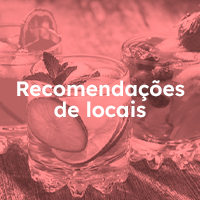
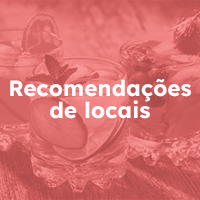
mudanças html e css

diff --git a/src/app/components/shared/right-side/right-side.component.html b/src/app/components/shared/right-side/right-side.component.html
@@ -5,27 +5,27 @@
   </div>
 
   <div class="w-12">
-    <p-contextmenu #cm [model]="items" (onHide)="selectedProduct = null" />
-    <p-table #dt2 [value]="products" class="scrollable-table w-full" [ngStyle]="{'max-height': tableHeight}">
+    <p-contextmenu #cm [model]="items" (onHide)="selectedUser = null" />
+    <p-table #dt2 [value]="users" class="scrollable-table w-full" [ngStyle]="{'max-height': tableHeight}">
       <ng-template #caption>
         <div class="flex">
           <p-iconfield iconPosition="left" class="ml-auto">
             <p-inputicon>
               <i class="pi pi-search"></i>
             </p-inputicon>
-            <input pInputText type="text" (input)="filterProducts($event)" placeholder="Pesquisar usuário" />
+            <input pInputText type="text" (input)="filterUsers($event)" placeholder="Pesquisar usuário" />
           </p-iconfield>
         </div>
       </ng-template>
 
-      <ng-template pTemplate="body" let-product let-i="rowIndex">
-        <tr (click)="onRowClick(product)" [pContextMenuRow]="product">
+      <ng-template pTemplate="body" let-user let-i="rowIndex">
+        <tr (click)="onRowClick(user)" [pContextMenuRow]="user">
           <td>
-            <img [src]="product.photo" height="50" width="50" class="product-image" />
+            <img [src]="user.photo" height="50" width="50" class="user-image" />
           </td>
           <td>
-            <div class="truncate" style="color: #3e3e3e;"> {{ product.name }} </div>
-            <div class="truncate" style="font-size: 12px;"> {{ product.text }}</div>
+            <div class="truncate" style="color: #3e3e3e;"> {{ user.name }} </div>
+            <div class="truncate" style="font-size: 12px;"> {{ user.text }}</div>
           </td>
         </tr>
       </ng-template>
@@ -33,8 +33,8 @@
 
     <div *ngIf="isExpanded">
       <div class="grid div-chat"  style="width: 100%; display: flex; align-items: center;">
-        <div class="col"><img *ngIf="expandedProduct" [src]="expandedProduct.photo" height="50" width="50" class="product-image2" /></div>
-        <div class="col-7 truncate"><div *ngIf="expandedProduct" style="color: #FF9D9D; font-weight: 600; font-size: large;"> {{ expandedProduct.name }} </div></div>
+        <div class="col"><img *ngIf="expandedUser" [src]="expandedUser.photo" height="50" width="50" class="user-image2" /></div>
+        <div class="col-7 truncate"><div *ngIf="expandedUser" style="color: #FF9D9D; font-weight: 600; font-size: large;"> {{ expandedUser.name }} </div></div>
         <div class="col"><i class="pi pi-times" (click)="closeDiv()"></i></div>
       </div>
       <div>

diff --git a/src/app/components/shared/right-side/right-side.component.ts b/src/app/components/shared/right-side/right-side.component.ts
@@ -9,7 +9,7 @@ import { MenuItem } from 'primeng/api';
 import { ContextMenu } from 'primeng/contextmenu';
 import { TextareaModule } from 'primeng/textarea';
 
-export interface Product {
+export interface User {
   photo: any;
   name: string;
   text: string;
@@ -24,18 +24,18 @@ export interface Product {
 })
 export class RightSideComponent implements OnInit {
 
-  products!: Product[];
+  users!: User[];
   items: MenuItem[] | undefined;
-  selectedProduct: Product | null = null;
+  selectedUser: User | null = null;
   tableHeight = '80%';
   isExpanded = false;
-  expandedProduct: Product | null = null;
+  expandedUser: User | null = null;
 
   @ViewChild('dt2') dt2!: Table;
 
   ngOnInit() {
-    this.getProductsMini().then((data) => {
-      this.products = data;
+    this.getUsersMini().then((data) => {
+      this.users = data;
     });
 
     this.items = [
@@ -44,7 +44,7 @@ export class RightSideComponent implements OnInit {
     ];
   }
 
-  getProductsMini(): Promise<Product[]> {
+  getUsersMini(): Promise<User[]> {
     return Promise.resolve([
       { photo: 'https://imgur.com/ryhUuwt.jpg', name: 'Lara Souza', text: 'Lorem Ipsum is simply dummy text of the printing and typesetting industry.' },
       { photo: 'https://imgur.com/eVQoJev.jpg', name: 'Marta Vieira', text: 'Lorem Ipsum is simply dummy text of the printing and typesetting industry.' },
@@ -58,8 +58,8 @@ export class RightSideComponent implements OnInit {
     ]);
   }
 
-  onRowClick(product: Product): void {
-    this.expandedProduct = product;
+  onRowClick(user: User): void {
+    this.expandedUser = user;
     this.isExpanded = true;
     this.tableHeight = '20%';
   }
@@ -67,10 +67,10 @@ export class RightSideComponent implements OnInit {
   closeDiv(): void {
     this.isExpanded = false;
     this.tableHeight = '80%';
-    this.expandedProduct = null;
+    this.expandedUser = null;
   }
 
-  filterProducts(event: Event): void {
+  filterUsers(event: Event): void {
     const input = event.target as HTMLInputElement;
     if (this.dt2) {
       this.dt2.filterGlobal(input.value, 'contains');

diff --git a/src/app/components/communities/assuntos-gerais/assuntos-gerais.component.html b/src/app/components/communities/assuntos-gerais/assuntos-gerais.component.html
@@ -8,19 +8,23 @@
     <p-confirmdialog />
     <p-button class="bt3" icon="pi pi-pencil" (click)="openCreatePostModal()" type="button"></p-button>
 
-    <div class="content px-4 pt-4">
-      <div class="mt-3 mb-3">
-        <p-iconfield iconPosition="left" class="ml-auto">
-          <p-inputicon><i class="pi pi-search"></i></p-inputicon>
-          <input pInputText type="text" placeholder="Pesquisar..." />
-        </p-iconfield>
+    <div class="content px-4 pt-4 ">
+      <div class="div-ww">
+
+        <img src="/imgs/b5.png" class="com-banner">
+
+        <div class="mt-3 mb-3">
+          <p-iconfield iconPosition="left" class="ml-auto">
+            <p-inputicon><i class="pi pi-search"></i></p-inputicon>
+            <input pInputText type="text" placeholder="Pesquisar..." />
+          </p-iconfield>
+        </div>
+
+        <app-post *ngFor="let post of posts" [post]="post" [tags]="post.tags" [userId]="currentUserId"></app-post>
       </div>
-
-      <app-post *ngFor="let post of posts" [post]="post" [tags]="post.tags" [userId]="currentUserId"></app-post>
-
-      <app-right-side class="sidebar right"></app-right-side>
-
     </div>
+
+    <app-right-side class="sidebar right"></app-right-side>
   </div>
 
   <p-dialog [(visible)]="showPostModal" modal [header]="''" [closable]="false" [style]="{width: '50vw'}">

diff --git a/src/app/components/communities/autocuidados-femininos/autocuidados-femininos.component.html b/src/app/components/communities/autocuidados-femininos/autocuidados-femininos.component.html
@@ -9,25 +9,23 @@
     <p-button class="bt3" icon="pi pi-pencil" (click)="openCreatePostModal()" type="button"></p-button>
 
     <div class="content px-4 pt-4">
+      <div class="div-ww">
 
-      <!--
-      <div class="w-full pb-2 mb-1 line">
-        <img src="/imgs/5.png" class="com-image" />
+        <img src="/imgs/b4.png" class="com-banner">
+
+        <div class="mt-3 mb-3">
+          <p-iconfield iconPosition="left" class="ml-auto">
+            <p-inputicon><i class="pi pi-search"></i></p-inputicon>
+            <input pInputText type="text" placeholder="Pesquisar..." />
+          </p-iconfield>
+        </div>
+
+        <app-post *ngFor="let post of posts" [post]="post" [tags]="post.tags" [userId]="currentUserId"></app-post>
+
       </div>
-      -->
-
-      <div class="mt-3 mb-3">
-        <p-iconfield iconPosition="left" class="ml-auto">
-          <p-inputicon><i class="pi pi-search"></i></p-inputicon>
-          <input pInputText type="text" placeholder="Pesquisar..." />
-        </p-iconfield>
-      </div>
-
-      <app-post *ngFor="let post of posts" [post]="post" [tags]="post.tags" [userId]="currentUserId"></app-post>
-
-
-      <app-right-side class="sidebar right"></app-right-side>
     </div>
+
+    <app-right-side class="sidebar right"></app-right-side>
 
   </div>
 

diff --git a/src/app/components/communities/dicas-defesa/dicas-defesa.component.html b/src/app/components/communities/dicas-defesa/dicas-defesa.component.html
@@ -1,4 +1,3 @@
-<p>dicas-defesa works!</p>
 <div class="container">
   <div class="line-fy"></div>
 
@@ -10,18 +9,23 @@
     <p-button class="bt3" icon="pi pi-pencil" (click)="openCreatePostModal()" type="button"></p-button>
 
     <div class="content px-4 pt-4">
-      <div class="mt-3 mb-3">
-        <p-iconfield iconPosition="left" class="ml-auto">
-          <p-inputicon><i class="pi pi-search"></i></p-inputicon>
-          <input pInputText type="text" placeholder="Pesquisar..." />
-        </p-iconfield>
+      <div class="div-ww">
+
+        <img src="/imgs/b2.png" class="com-banner">
+
+        <div class="mt-3 mb-3">
+          <p-iconfield iconPosition="left" class="ml-auto">
+            <p-inputicon><i class="pi pi-search"></i></p-inputicon>
+            <input pInputText type="text" placeholder="Pesquisar..." />
+          </p-iconfield>
+        </div>
+
+        <app-post *ngFor="let post of posts" [post]="post" [tags]="post.tags" [userId]="currentUserId"></app-post>
+
       </div>
-
-      <app-post *ngFor="let post of posts" [post]="post" [tags]="post.tags" [userId]="currentUserId"></app-post>
-
-
-      <app-right-side class="sidebar right"></app-right-side>
     </div>
+
+    <app-right-side class="sidebar right"></app-right-side>
 
   </div>
 

diff --git a/src/app/components/communities/autocuidados-if/autocuidados-if.component.html b/src/app/components/communities/autocuidados-if/autocuidados-if.component.html
@@ -9,18 +9,23 @@
     <p-button class="bt3" icon="pi pi-pencil" (click)="openCreatePostModal()" type="button"></p-button>
 
     <div class="content px-4 pt-4">
-      <div class="mt-3 mb-3">
-        <p-iconfield iconPosition="left" class="ml-auto">
-          <p-inputicon><i class="pi pi-search"></i></p-inputicon>
-          <input pInputText type="text" placeholder="Pesquisar..." />
-        </p-iconfield>
+      <div class="div-ww">
+
+        <img src="/imgs/b1.png" class="com-banner">
+
+        <div class="mt-3 mb-3">
+          <p-iconfield iconPosition="left" class="ml-auto">
+            <p-inputicon><i class="pi pi-search"></i></p-inputicon>
+            <input pInputText type="text" placeholder="Pesquisar..." />
+          </p-iconfield>
+        </div>
+
+        <app-post *ngFor="let post of posts" [post]="post" [tags]="post.tags" [userId]="currentUserId"></app-post>
+
       </div>
-
-      <app-post *ngFor="let post of posts" [post]="post" [tags]="post.tags" [userId]="currentUserId"></app-post>
-
-
-      <app-right-side class="sidebar right"></app-right-side>
     </div>
+
+    <app-right-side class="sidebar right"></app-right-side>
 
   </div>
 

diff --git a/src/app/components/communities/reco-locais/reco-locais.component.html b/src/app/components/communities/reco-locais/reco-locais.component.html
@@ -9,18 +9,23 @@
     <p-button class="bt3" icon="pi pi-pencil" (click)="openCreatePostModal()" type="button"></p-button>
 
     <div class="content px-4 pt-4">
-      <div class="mt-3 mb-3">
-        <p-iconfield iconPosition="left" class="ml-auto">
-          <p-inputicon><i class="pi pi-search"></i></p-inputicon>
-          <input pInputText type="text" placeholder="Pesquisar..." />
-        </p-iconfield>
+      <div class="div-ww">
+
+        <img src="/imgs/b3.png" class="com-baner">
+
+        <div class="mt-3 mb-3">
+          <p-iconfield iconPosition="left" class="ml-auto">
+            <p-inputicon><i class="pi pi-search"></i></p-inputicon>
+            <input pInputText type="text" placeholder="Pesquisar..." />
+          </p-iconfield>
+        </div>
+
+        <app-post *ngFor="let post of posts" [post]="post" [tags]="post.tags" [userId]="currentUserId"></app-post>
+
       </div>
-
-      <app-post *ngFor="let post of posts" [post]="post" [tags]="post.tags" [userId]="currentUserId"></app-post>
-
-
-      <app-right-side class="sidebar right"></app-right-side>
     </div>
+
+    <app-right-side class="sidebar right"></app-right-side>
 
   </div>
 

diff --git a/src/app/components/edit-profile/edit-profile.component.html b/src/app/components/edit-profile/edit-profile.component.html
@@ -3,17 +3,17 @@
 
     <!--capa e foto-->
     <div class="image-wrapper w-full" (click)="onUploadClick('cover')">
-      <img [src]="user?.cover_pic || '/imgs/ai2.png'" class="product-image">
+      <img [src]="user?.cover_pic || '/imgs/ai2.png'" class="cover-image">
       <div class="overlay">
         <div class="flex flex-column justify-content-center align-items-center" style="color: white">
           <i class="pi pi-camera"></i>
-          150x570
+          150x575
         </div>
       </div>
     </div>
 
     <div class="image-wrapper" (click)="onUploadClick('profile')">
-      <img [src]="user?.profile_pic || '/imgs/ai.png'" class="product-image2">
+      <img [src]="user?.profile_pic || '/imgs/ai.png'" class="icon-image">
       <div class="overlay2">
         <div class="flex flex-column justify-content-center align-items-center" style="font-size: 12px; color: white">
           <i class="pi pi-camera"></i>

diff --git a/src/app/components/shared/create-post/create-post.component.ts b/src/app/components/shared/create-post/create-post.component.ts
@@ -47,7 +47,7 @@ export class CreatePostComponent {
 
     this.comunities = [
       { name: 'Recomendações de Locais', code: 'Recomendações de Locais' },
-      { name: 'Autocuidados Femininos', code: 'Autocuidados Femininos' },
+      { name: 'Autocuidados Gerais', code: 'Autocuidados Gerais' },
       { name: 'Autocuidados Íntimos Femininos', code: 'Autocuidados Íntimos Femininos' },
       { name: 'Dicas de Autodefesa', code: 'Dicas de Autodefesa' },
       { name: 'Assuntos Gerais', code: 'Assuntos Gerais' }

diff --git a/src/app/components/profile-user-view/profile-user-view.component.html b/src/app/components/profile-user-view/profile-user-view.component.html
@@ -1,7 +1,7 @@
 <div class="w-12 pt-2 line pb-2">
 
-  <img [src]="user?.cover_pic || '/imgs/ai2.png'" class="product-image">
-  <img [src]="user?.profile_pic || '/imgs/ai.png'" class="product-image2">
+  <img [src]="user?.cover_pic || '/imgs/ai2.png'" class="cover-image">
+  <img [src]="user?.profile_pic || '/imgs/ai.png'" class="icon-image">
 
   <div class="flex flex-row align-items-center mt-5 ml-3 gap-3">
     <div class="flex align-items-center justify-content-start user">{{ user?.name }}</div>

diff --git a/src/app/components/edit-profile/edit-profile.component.css b/src/app/components/edit-profile/edit-profile.component.css
@@ -14,14 +14,14 @@
   display: inline-block;
 }
 
-.product-image {
+.cover-image {
   height: 150px;
   object-fit: cover;
   width: 100%;
   transition: opacity 0.3s ease;
 }
 
-.product-image2 {
+.icon-image {
   border-radius: 100%;
   border: 4px solid #ffffff;
   width: 80px;
@@ -69,8 +69,8 @@
   opacity: 1;
 }
 
-.image-wrapper:hover .product-image,
-.image-wrapper:hover .product-image2 {
+.image-wrapper:hover .cover-image,
+.image-wrapper:hover .icon-image {
   opacity: 1;
 }
 

diff --git a/src/app/components/profile-user/profile-user.component.html b/src/app/components/profile-user/profile-user.component.html
@@ -1,7 +1,7 @@
 <div class="w-12 pt-2">
 
-  <img [src]="user?.cover_pic || '/imgs/ai2.png'" class="product-image">
-  <img [src]="user?.profile_pic || '/imgs/ai.png'" class="product-image2">
+  <img [src]="user?.cover_pic || '/imgs/ai2.png'" class="cover-image">
+  <img [src]="user?.profile_pic || '/imgs/ai.png'" class="icon-image">
 
   <div class="flex flex-row mt-6 ml-3 gap-3">
     <div class="flex align-items-center justify-content-center user">{{ user?.name }}</div>
